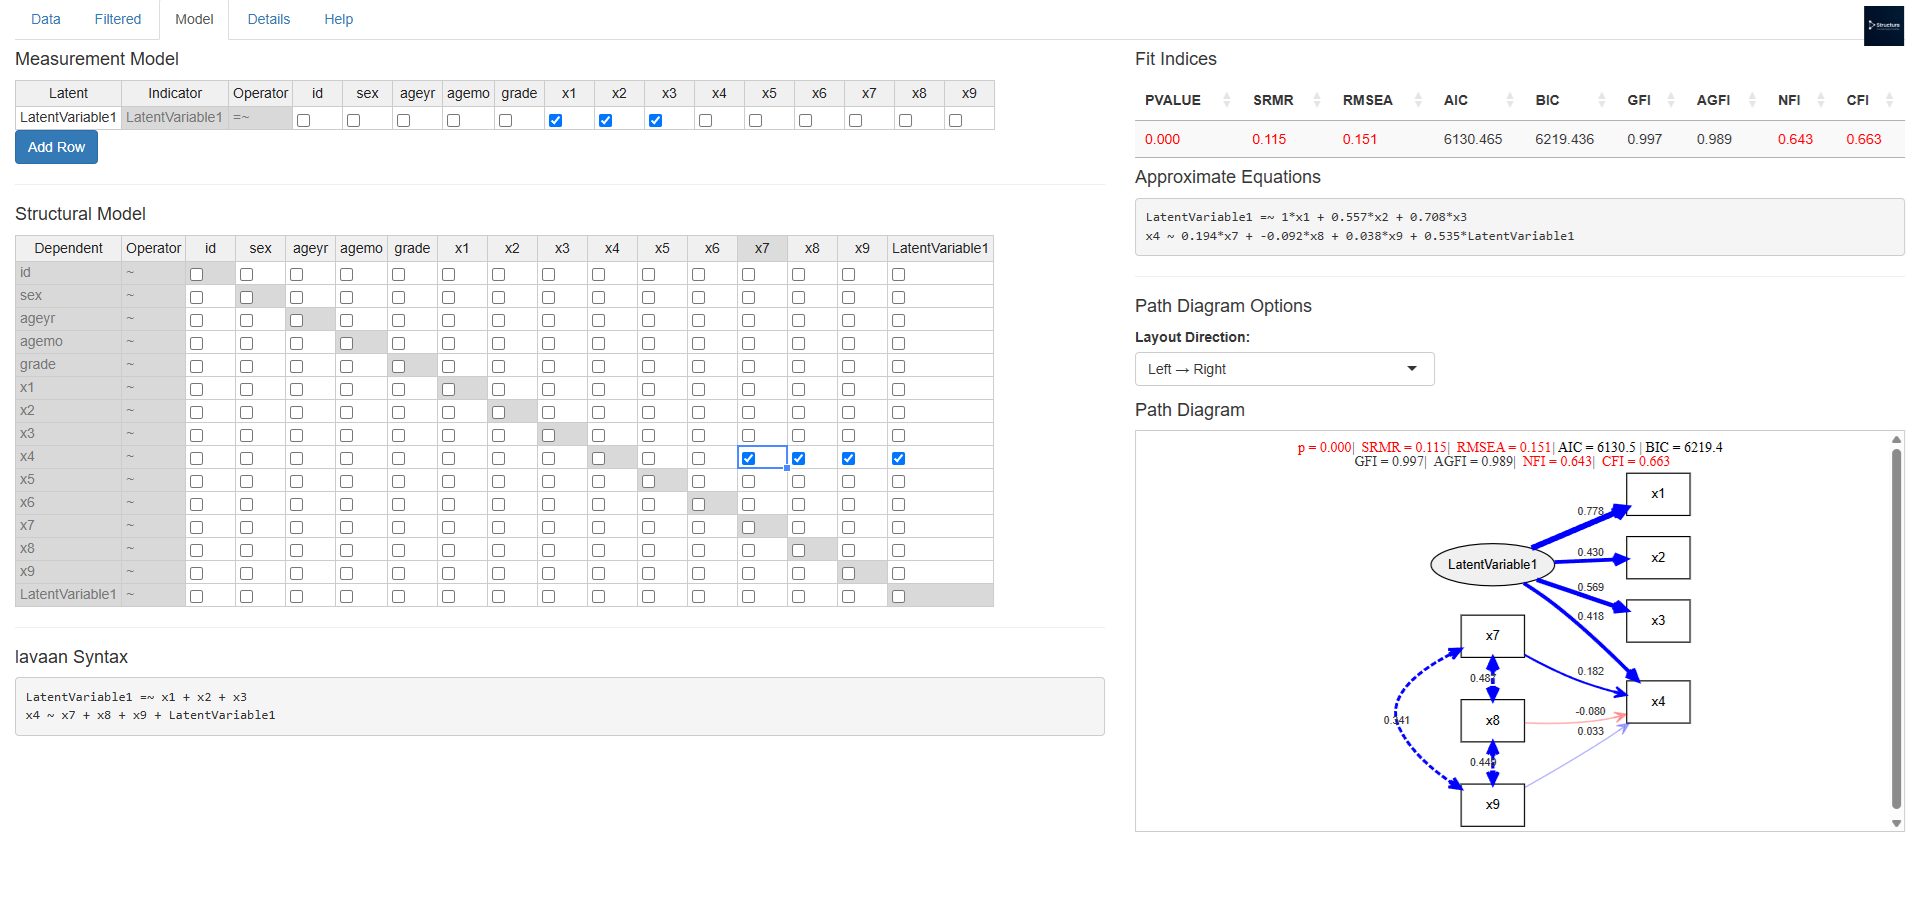
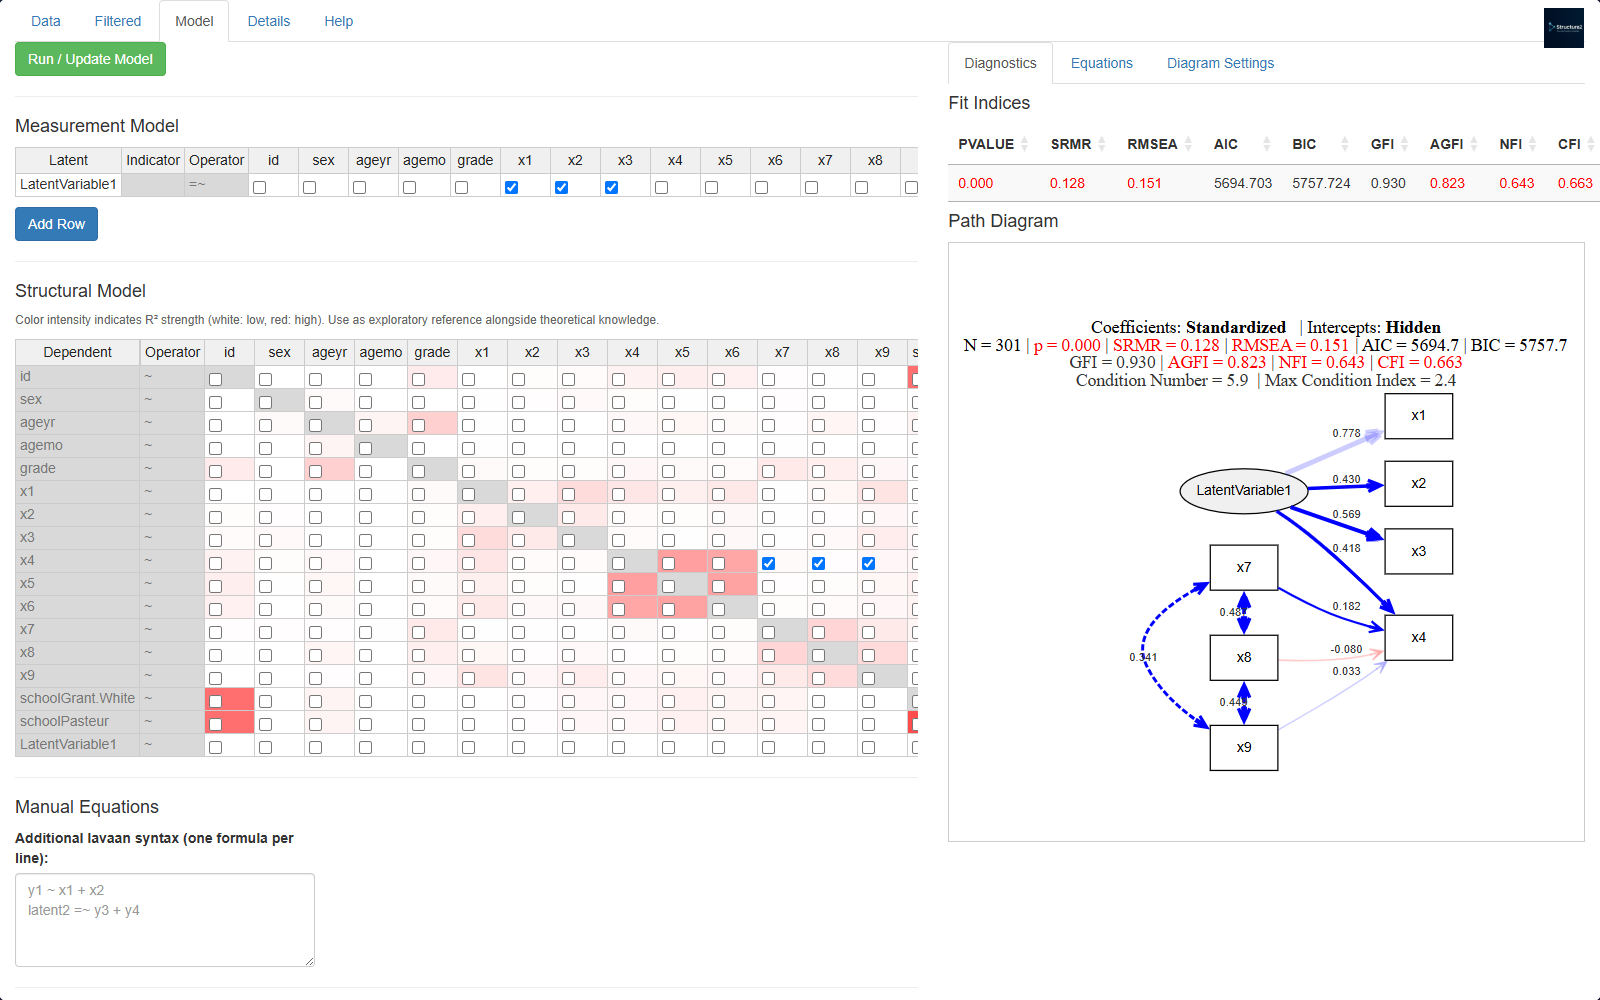
docs: restructure README.md and update application screenshot with latest UI

diff --git a/test_browser/capture_image.js b/test_browser/capture_image.js
@@ -1,0 +1,237 @@
+const puppeteer = require('puppeteer-core');
+const http = require('http');
+const fs = require('fs');
+const path = require('path');
+
+// 1. Create a simple static server with COOP/COEP headers for ShinyLive
+const MIME_TYPES = {
+  '.html': 'text/html',
+  '.css': 'text/css',
+  '.js': 'text/javascript',
+  '.json': 'application/json',
+  '.png': 'image/png',
+  '.jpg': 'image/jpeg',
+  '.gif': 'image/gif',
+  '.svg': 'image/svg+xml',
+  '.ico': 'image/x-icon',
+  '.wasm': 'application/wasm'
+};
+
+const server = http.createServer((req, res) => {
+  let urlPath = req.url.split('?')[0].split('#')[0];
+  let filePath = path.join(__dirname, '..', 'site', urlPath === '/' ? 'index.html' : urlPath);
+
+  const ext = path.extname(filePath);
+  const contentType = MIME_TYPES[ext] || 'application/octet-stream';
+
+  fs.readFile(filePath, (err, content) => {
+    if (err) {
+      res.writeHead(404, { 'Content-Type': 'text/html' });
+      res.end('<h1>404 Not Found</h1>', 'utf-8');
+    } else {
+      const headers = {
+        'Content-Type': contentType,
+        'Cross-Origin-Opener-Policy': 'same-origin',
+        'Cross-Origin-Embedder-Policy': 'require-corp'
+      };
+      if (filePath.endsWith('shinylive-sw.js')) {
+        headers['Service-Worker-Allowed'] = '/';
+      }
+      res.writeHead(200, headers);
+      res.end(content, 'utf-8');
+    }
+  });
+});
+
+server.listen(8000, async () => {
+  console.log('Server started on http://localhost:8000');
+  
+  try {
+    await capture();
+  } catch (err) {
+    console.error('Error during capture:', err);
+  } finally {
+    server.close();
+    console.log('Server stopped.');
+  }
+});
+
+async function capture() {
+  console.log('Launching browser...');
+  const browser = await puppeteer.launch({
+    executablePath: 'C:\\Program Files (x86)\\Microsoft\\Edge\\Application\\msedge.exe',
+    headless: true,
+    defaultViewport: {
+      width: 1600,
+      height: 1000
+    },
+    args: ['--no-sandbox', '--disable-setuid-sandbox']
+  });
+
+  const page = await browser.newPage();
+  
+  page.on('console', msg => console.log('BROWSER LOG:', msg.text()));
+  page.on('pageerror', err => console.error('BROWSER ERROR:', err.message));
+
+  console.log('Navigating to http://localhost:8000 ...');
+  await page.goto('http://localhost:8000', { waitUntil: 'networkidle2', timeout: 90000 });
+
+  console.log('Waiting for shinylive iframe...');
+  await page.waitForSelector('iframe', { timeout: 30000 });
+  const iframeElement = await page.$('iframe');
+  const frame = await iframeElement.contentFrame();
+  if (!frame) throw new Error('Could not get iframe contentFrame');
+
+  console.log('Waiting for startup modal inside iframe...');
+  await frame.waitForSelector('input[name="sample_ds"][value="HolzingerSwineford1939"]', { timeout: 90000 });
+  
+  console.log('Selecting HolzingerSwineford1939 demo dataset...');
+  await frame.evaluate(() => {
+    const radio = document.querySelector('input[name="sample_ds"][value="HolzingerSwineford1939"]');
+    if (radio) radio.click();
+  });
+
+  console.log('Waiting for datatable to load...');
+  await frame.waitForSelector('#datatable', { timeout: 30000 });
+  
+  console.log('Switching to Model tab...');
+  await frame.evaluate(() => {
+    const tabs = document.querySelectorAll('a[data-toggle="tab"]');
+    for (let tab of tabs) {
+      if (tab.innerText.trim() === 'Model') {
+        tab.click();
+        break;
+      }
+    }
+  });
+
+  console.log('Waiting for Model tables to render...');
+  await frame.waitForSelector('#input_table', { timeout: 15000 });
+  await frame.waitForSelector('#checkbox_matrix', { timeout: 15000 });
+  
+  // Wait a few seconds to ensure handsontable is initialized
+  await new Promise(resolve => setTimeout(resolve, 3000));
+
+  console.log('Setting up SEM model structure...');
+  const setupSuccess = await frame.evaluate(async () => {
+    try {
+      // 1. Measurement Model: LatentVariable1 =~ x1 + x2 + x3
+      const measTable = document.querySelector('#input_table');
+      if (!measTable) throw new Error('Measurement table (#input_table) not found');
+      
+      const measHeaders = Array.from(measTable.querySelectorAll('.ht_clone_top thead th')).map(th => th.innerText.trim());
+      const firstRow = measTable.querySelector('.ht_master tbody tr');
+      if (!firstRow) throw new Error('First row in measurement model not found');
+      const measTds = firstRow.querySelectorAll('td');
+      
+      console.log('measHeaders raw:', JSON.stringify(measHeaders));
+      console.log('measTds count:', measTds.length);
+      
+      let dataMeasHeaders = measHeaders;
+      if (measHeaders.length > measTds.length) {
+        dataMeasHeaders = measHeaders.slice(measHeaders.length - measTds.length);
+        console.log('measHeaders sliced to match tds:', JSON.stringify(dataMeasHeaders));
+      }
+      
+      const x1_idx = dataMeasHeaders.indexOf('x1');
+      const x2_idx = dataMeasHeaders.indexOf('x2');
+      const x3_idx = dataMeasHeaders.indexOf('x3');
+      
+      if (x1_idx === -1 || x2_idx === -1 || x3_idx === -1) {
+        throw new Error('x1, x2, x3 not found in measurement model headers: ' + JSON.stringify(dataMeasHeaders));
+      }
+      
+      // Click checkboxes
+      measTds[x1_idx].querySelector('input[type="checkbox"]').click();
+      measTds[x2_idx].querySelector('input[type="checkbox"]').click();
+      measTds[x3_idx].querySelector('input[type="checkbox"]').click();
+      
+      // Blur to ensure Handsontable registers and sends changes to Shiny
+      document.body.click();
+      
+      // 2. Wait for Structural Model to update and include "LatentVariable1"
+      console.log('Waiting for LatentVariable1 to appear in structural model headers...');
+      const structTable = document.querySelector('#checkbox_matrix');
+      if (!structTable) throw new Error('Structural table (#checkbox_matrix) not found');
+      
+      let latentFound = false;
+      let structHeaders = [];
+      
+      for (let i = 0; i < 20; i++) { // Poll for up to 10 seconds (20 * 500ms)
+        structHeaders = Array.from(structTable.querySelectorAll('.ht_clone_top thead th')).map(th => th.innerText.trim());
+        if (structHeaders.includes('LatentVariable1')) {
+          latentFound = true;
+          break;
+        }
+        await new Promise(resolve => setTimeout(resolve, 500));
+      }
+      
+      if (!latentFound) {
+        throw new Error('LatentVariable1 did not appear in structural model headers. Available headers: ' + JSON.stringify(structHeaders));
+      }
+      
+      console.log('LatentVariable1 appeared in structural model headers!');
+      
+      const structRows = Array.from(structTable.querySelectorAll('.ht_master tbody tr'));
+      const x4Row = structRows.find(row => {
+        const firstCell = row.querySelector('td');
+        return firstCell && firstCell.innerText.trim() === 'x4';
+      });
+      
+      if (!x4Row) throw new Error('Row x4 not found in structural model');
+      const structTds = x4Row.querySelectorAll('td');
+      
+      console.log('structHeaders raw:', JSON.stringify(structHeaders));
+      console.log('structTds count:', structTds.length);
+      
+      let dataStructHeaders = structHeaders;
+      if (structHeaders.length > structTds.length) {
+        dataStructHeaders = structHeaders.slice(structHeaders.length - structTds.length);
+        console.log('structHeaders sliced to match tds:', JSON.stringify(dataStructHeaders));
+      }
+      
+      const x7_idx = dataStructHeaders.indexOf('x7');
+      const x8_idx = dataStructHeaders.indexOf('x8');
+      const x9_idx = dataStructHeaders.indexOf('x9');
+      const latent_idx = dataStructHeaders.indexOf('LatentVariable1');
+      
+      if (x7_idx === -1 || x8_idx === -1 || x9_idx === -1 || latent_idx === -1) {
+        throw new Error('Target columns not found in structural model headers: ' + JSON.stringify(dataStructHeaders));
+      }
+      
+      structTds[x7_idx].querySelector('input[type="checkbox"]').click();
+      structTds[x8_idx].querySelector('input[type="checkbox"]').click();
+      structTds[x9_idx].querySelector('input[type="checkbox"]').click();
+      structTds[latent_idx].querySelector('input[type="checkbox"]').click();
+      
+      return true;
+    } catch (e) {
+      console.error('Error in setupModel evaluation:', e.message);
+      return false;
+    }
+  });
+
+  if (!setupSuccess) {
+    throw new Error('Failed to set up model checkbox structure.');
+  }
+
+  console.log('Model structure configured. Clicking Run / Update Model...');
+  await frame.evaluate(() => {
+    const btn = document.getElementById('run_model');
+    if (btn) btn.click();
+  });
+
+  console.log('Waiting for path diagram rendering...');
+  await frame.waitForSelector('#sem_plot_container svg', { timeout: 30000 });
+  
+  // Extra wait for layout and rendering stabilization
+  await new Promise(resolve => setTimeout(resolve, 2000));
+
+  console.log('Taking high-quality screenshot...');
+  const appFrame = await page.$('iframe');
+  await appFrame.screenshot({ path: path.join(__dirname, '..', 'image.png') });
+  
+  console.log('Screenshot captured and saved to image.png!');
+  
+  await browser.close();
+}

diff --git a/README.md b/README.md
@@ -1,11 +1,21 @@
+<p align="center">
+  <img src="www/logo.png" width="120" alt="Structura2 Logo" />
+</p>
 
-# Structura2
+<h1 align="center">Structura2</h1>
+<p align="center"><strong>Structural Insights, Simplified.</strong></p>
 
-**Structural Insights, Simplified.**
-<br>
-<img src="www/logo.png" width="12.5%" />
+<p align="center">
+  <a href="https://toshihiroiguchi.github.io/Structura2/"><img src="https://img.shields.io/badge/Live%20Demo-GitHub%20Pages-blue?style=flat-square" alt="Live Demo" /></a>
+  <img src="https://img.shields.io/badge/R-%3E%3D%204.0.0-blue?style=flat-square" alt="R version" />
+  <img src="https://img.shields.io/badge/License-MIT-green?style=flat-square" alt="License" />
+</p>
 
-**Live Demo**: [https://toshihiroiguchi.github.io/Structura2/](https://toshihiroiguchi.github.io/Structura2/)
+---
+
+<p align="center">
+  <img src="image.png" alt="Structura2 Screenshot" width="100%" />
+</p>
 
 ## Description
 
@@ -26,12 +36,14 @@ Structura2 is an interactive Shiny application for Structural Equation Modeling 
 There are several ways to launch and run **Structura2**, depending on whether you want to run it online, locally via standard Shiny, or as a compiled static site.
 
 ### Option 1: Live Demo (No Setup Required)
+
 Simply access the application online via GitHub Pages:
 👉 **[Structura2 Live Demo](https://toshihiroiguchi.github.io/Structura2/)**
 
 This version is compiled into WebAssembly using ShinyLive and runs entirely inside your web browser. You do not need to install R or any libraries.
 
 ### Option 2: Run Locally (Traditional Shiny App)
+
 To run the traditional Shiny application locally, you need [R](https://www.r-project.org/) installed.
 
 1. **Install Dependencies**: Open R or RStudio and run the following command to install the required packages:
@@ -45,6 +57,7 @@ To run the traditional Shiny application locally, you need [R](https://www.r-pro
    The app will open in your default browser (usually at `http://127.0.0.1:xxxx`).
 
 ### Option 3: Compile and Serve Static Site Locally (ShinyLive WebAssembly)
+
 You can compile the app to a static site and serve it using a local web server.
 
 1. **Install ShinyLive**: In R, install the `shinylive` package:
@@ -67,11 +80,13 @@ You can compile the app to a static site and serve it using a local web server.
      ```
 4. **Access the App**: Open your web browser and navigate to `http://localhost:8000`.
 
+### Option 4: Hosting and Sharing Across LAN (Traditional Shiny)
 
-## Hosting the Shiny App Directly from GitHub (Traditional Shiny)
-
-You can launch **Structura2** directly from its GitHub repository as a traditional Shiny application (not ShinyLive) and make it accessible across your LAN. This requires a local installation of R. 
+You can launch **Structura2** directly from its GitHub repository as a traditional Shiny application (not ShinyLive) and make it accessible across your LAN. This requires a local installation of R.
 This script automatically detects your host's IPv4 address and configures Shiny's host/port options so other devices on your local network can connect.
+
+<details>
+<summary>Click to expand the complete LAN-hosting script</summary>
 
 ```r
 # ── Packages ──────────────────────────────────────────────────
@@ -145,10 +160,7 @@ shiny::runGitHub(
 )
 ```
 
-
-## Image
-<br>
-<img src="image.png"/>
+</details>
 
 ## License
 
